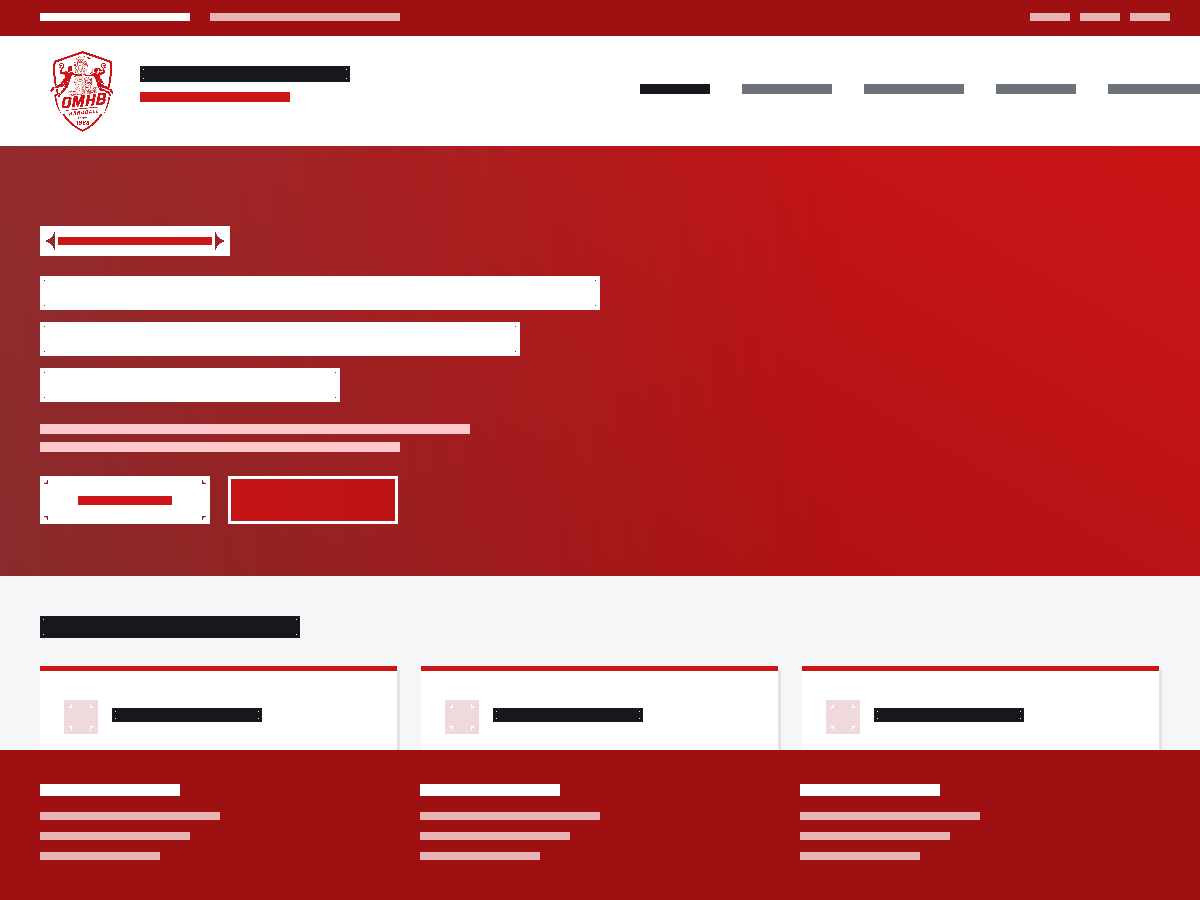
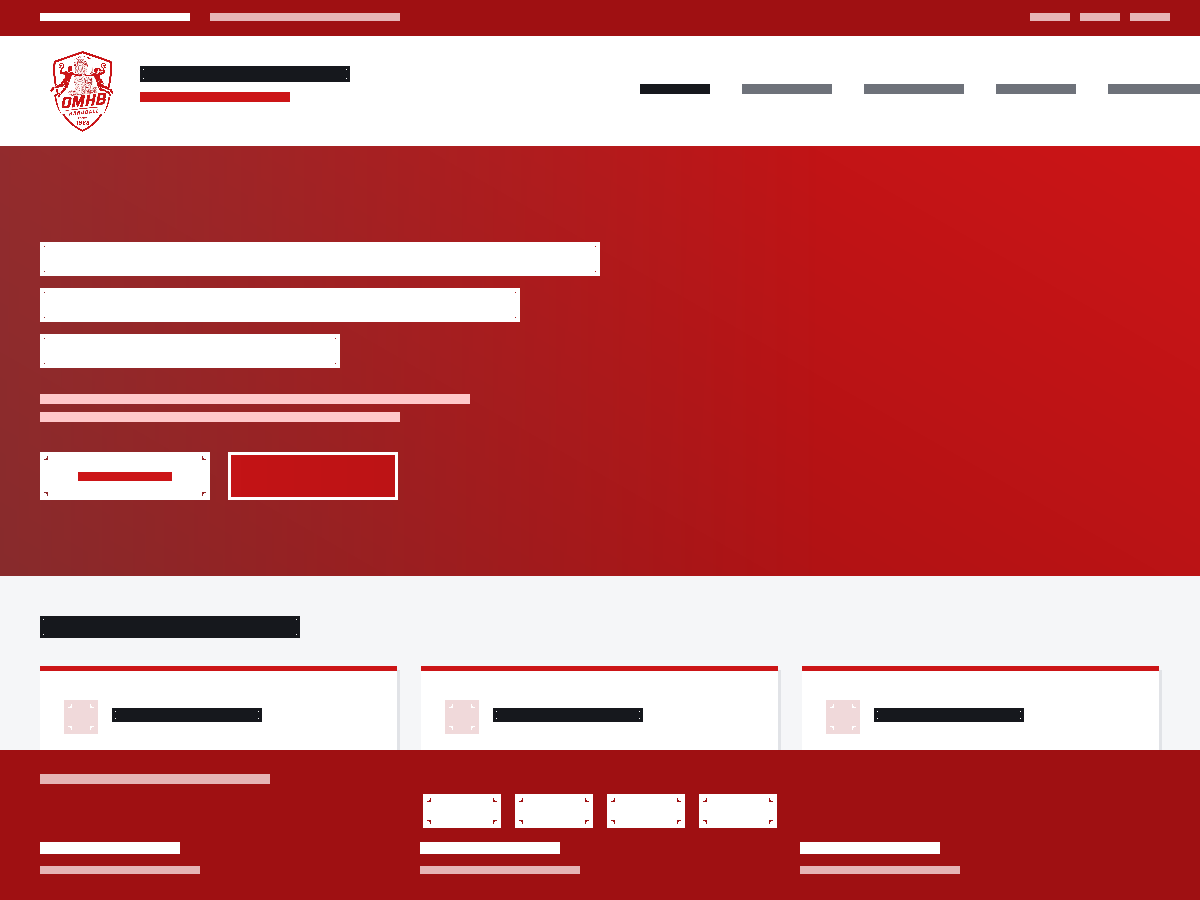
Suppression du badge « Club de handball » dans la bannière d'accueil

Changed region(s): [[0.0308, 0.2489, 0.5242, 0.5911], [0.3392, 0.8711, 0.8325, 0.9956], [0.0308, 0.84, 0.2467, 0.9956]]

diff --git a/apercu/style.css b/apercu/style.css
@@ -236,19 +236,6 @@ input[type="submit"]:hover {
 
 .omhb-hero-contenu { max-width: 640px; padding: 90px 0; }
 
-.omhb-hero-badge {
-  display: inline-block;
-  background: var(--omhb-rouge);
-  color: var(--omhb-blanc);
-  font-size: 13px;
-  font-weight: 700;
-  text-transform: uppercase;
-  letter-spacing: 0.1em;
-  padding: 6px 16px;
-  border-radius: 999px;
-  margin-bottom: 20px;
-}
-
 .omhb-hero-titre {
   font-size: clamp(34px, 5.5vw, 58px);
   line-height: 1.08;

diff --git a/omhb-theme/style.css b/omhb-theme/style.css
@@ -236,19 +236,6 @@ input[type="submit"]:hover {
 
 .omhb-hero-contenu { max-width: 640px; padding: 90px 0; }
 
-.omhb-hero-badge {
-  display: inline-block;
-  background: var(--omhb-rouge);
-  color: var(--omhb-blanc);
-  font-size: 13px;
-  font-weight: 700;
-  text-transform: uppercase;
-  letter-spacing: 0.1em;
-  padding: 6px 16px;
-  border-radius: 999px;
-  margin-bottom: 20px;
-}
-
 .omhb-hero-titre {
   font-size: clamp(34px, 5.5vw, 58px);
   line-height: 1.08;

diff --git a/apercu/apercu.html b/apercu/apercu.html
@@ -118,7 +118,6 @@
   <div class="omhb-hero-fond"></div>
   <div class="omhb-conteneur">
     <div class="omhb-hero-contenu">
-      <span class="omhb-hero-badge">Club de handball</span>
       <h1 class="omhb-hero-titre">La Passion du Hand depuis 1968</h1>
       <p class="omhb-hero-texte">BabyHand, jeunes, seniors, loisirs : l'Olympique Mehun Handball accueille tous les passionnés de handball, du débutant au compétiteur.</p>
       <div class="omhb-hero-actions">

diff --git a/omhb-theme/inc/customizer.php b/omhb-theme/inc/customizer.php
@@ -48,7 +48,7 @@ function omhb_personnaliser( $wp_customize ) {
 	) );
 
 	$omhb_champs_texte = array(
-		'omhb_hero_badge'    => array( __( 'Petit libellé au-dessus du titre', 'omhb' ), __( 'Club de handball', 'omhb' ) ),
+		'omhb_hero_badge'    => array( __( 'Slogan du club (sous le logo, si aucun logo défini)', 'omhb' ), __( 'Club de handball', 'omhb' ) ),
 		'omhb_hero_titre'    => array( __( 'Titre de la bannière', 'omhb' ), __( 'La Passion du Hand depuis 1968', 'omhb' ) ),
 		'omhb_hero_texte'    => array( __( 'Texte de la bannière', 'omhb' ), __( 'BabyHand, jeunes, seniors, loisirs : le club de Mehun-sur-Yèvre accueille tous les passionnés de handball, du débutant au compétiteur.', 'omhb' ) ),
 		'omhb_hero_bouton'   => array( __( 'Texte du bouton principal', 'omhb' ), __( 'Adhérer au club', 'omhb' ) ),

diff --git a/omhb-theme/front-page.php b/omhb-theme/front-page.php
@@ -18,7 +18,6 @@ if ( $omhb_hero_image_id ) {
 	<div class="omhb-hero-fond"<?php echo $omhb_style_fond; // phpcs:ignore WordPress.Security.EscapeOutput ?>"></div>
 	<div class="omhb-conteneur">
 		<div class="omhb-hero-contenu">
-			<span class="omhb-hero-badge"><?php echo esc_html( get_theme_mod( 'omhb_hero_badge', __( 'Club de handball', 'omhb' ) ) ); ?></span>
 			<h1 class="omhb-hero-titre"><?php echo esc_html( get_theme_mod( 'omhb_hero_titre', __( 'La Passion du Hand depuis 1968', 'omhb' ) ) ); ?></h1>
 			<p class="omhb-hero-texte"><?php echo esc_html( get_theme_mod( 'omhb_hero_texte', __( 'BabyHand, jeunes, seniors, loisirs : le club de Mehun-sur-Yèvre accueille tous les passionnés de handball.', 'omhb' ) ) ); ?></p>
 			<div class="omhb-hero-actions">
